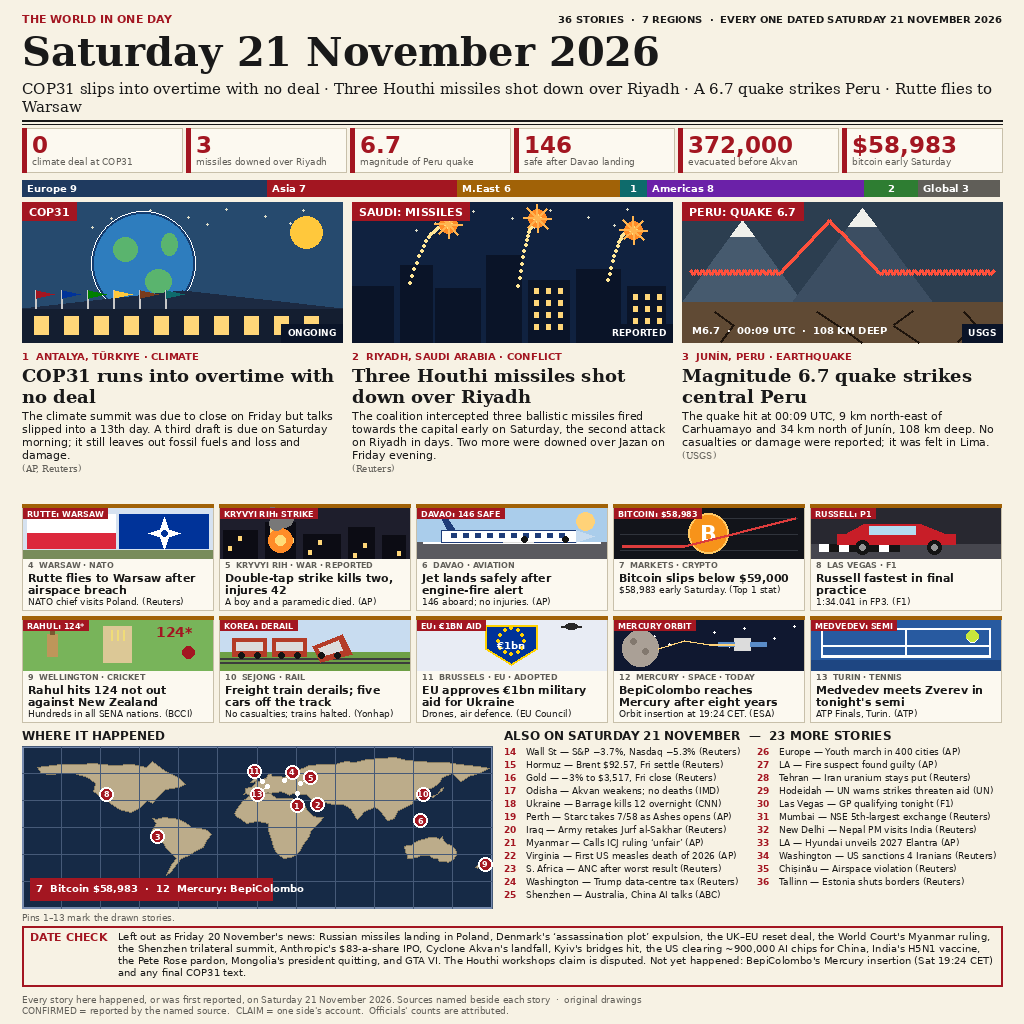
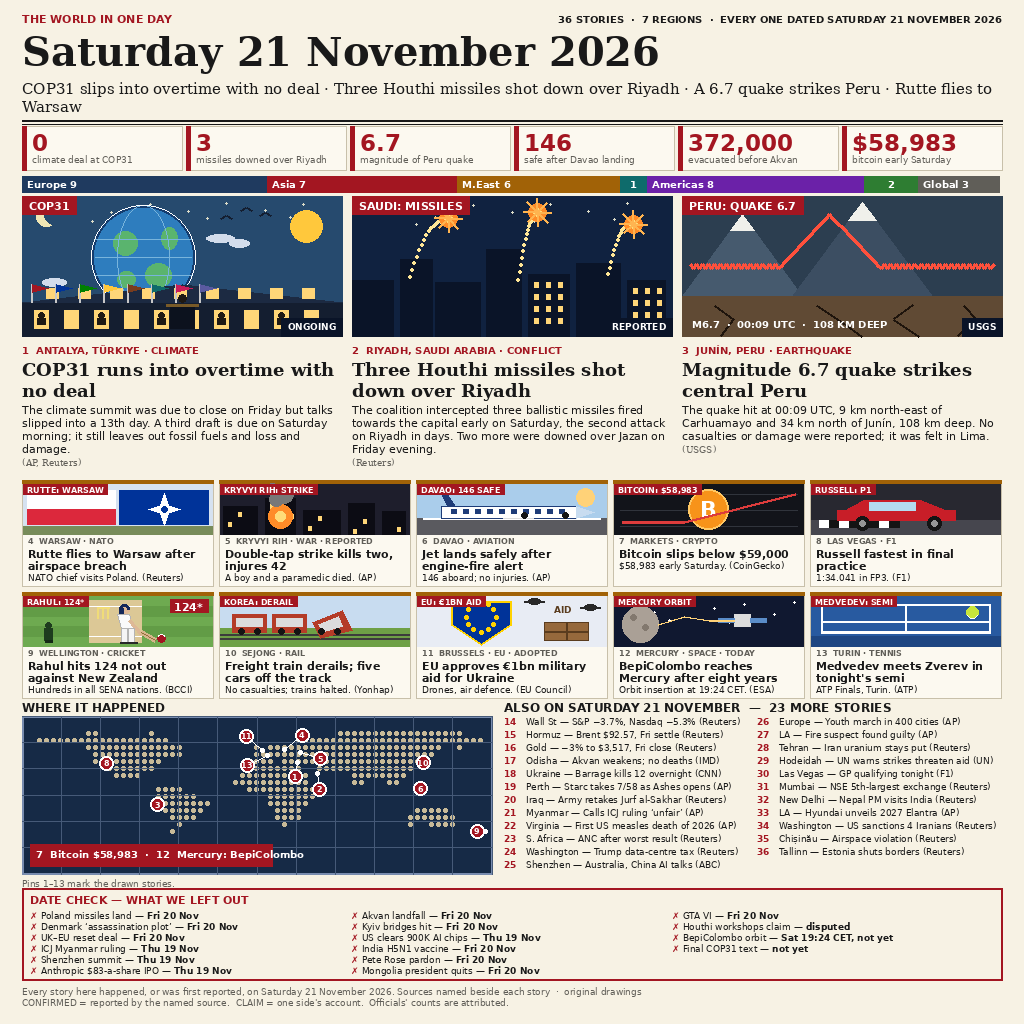
news-image-20261121: revision — richer illustrations, DATE CHECK checklist, dotted map, Bitcoin verified to CoinGecko

diff --git a/make_image.py b/make_image.py
@@ -143,7 +143,7 @@ SMALL = [
          body="146 aboard; no injuries.", src="AP", scene="plane",
          ban="DAVAO: 146 SAFE", region="Asia"),
     dict(n=7, tag="MARKETS \u00b7 CRYPTO", head="Bitcoin slips below $59,000",
-         body="$58,983 early Saturday.", src="Top 1 stat", scene="coin",
+         body="$58,983 early Saturday.", src="CoinGecko", scene="coin",
          ban="BITCOIN: $58,983", region="Global"),
     dict(n=8, tag="LAS VEGAS \u00b7 F1", head="Russell fastest in final practice",
          body="1:34.041 in FP3.", src="F1", scene="racecar",
@@ -203,53 +203,120 @@ STATS = [
     ("$58,983", "bitcoin early Saturday"),
 ]
 
-# Region counts recomputed from this story set; they sum to 36.
+# DATE CHECK: 16 items the paper deliberately left out, as a checklist
+# (the format top 3 uses — readable in 2 seconds). Each item names the day
+# it actually belongs to; the four Thursday items are NOT lumped under
+# "Friday's news" the way a paragraph would. Down-columns, 3 columns.
+DC_ITEMS = [
+    ("Poland missiles land", "Fri 20 Nov"),
+    ("Denmark \u2018assassination plot\u2019", "Fri 20 Nov"),
+    ("UK\u2013EU reset deal", "Fri 20 Nov"),
+    ("ICJ Myanmar ruling", "Thu 19 Nov"),
+    ("Shenzhen summit", "Thu 19 Nov"),
+    ("Anthropic $83-a-share IPO", "Thu 19 Nov"),
+    ("Akvan landfall", "Fri 20 Nov"),
+    ("Kyiv bridges hit", "Fri 20 Nov"),
+    ("US clears 900K AI chips", "Thu 19 Nov"),
+    ("India H5N1 vaccine", "Fri 20 Nov"),
+    ("Pete Rose pardon", "Fri 20 Nov"),
+    ("Mongolia president quits", "Fri 20 Nov"),
+    ("GTA VI", "Fri 20 Nov"),
+    ("Houthi workshops claim", "disputed"),
+    ("BepiColombo orbit", "Sat 19:24 CET, not yet"),
+    ("Final COP31 text", "not yet"),
+]
 REGIONS = [("Europe", 9, (31, 58, 95)), ("Asia", 7, (163, 22, 33)),
            ("Middle East", 6, (161, 98, 7)), ("Africa", 1, (14, 107, 107)),
            ("Americas", 8, (107, 33, 168)), ("Oceania", 2, (46, 125, 50)),
            ("Global", 3, (96, 94, 88))]
 
 # Map pins for stories 1-6, 8-11, 13. dx,dy = display offset in px (a leader
-# line is drawn back to the true position); used where pins would collide.
-PINS = {1: (30.7, 36.9, 0, 12), 2: (46.7, 24.7, 0, 0), 3: (-75.9, -11.0, 0, 0),
-        4: (21.0, 52.2, 8, -8), 5: (33.4, 47.9, 10, -6), 6: (125.6, 7.1, 0, 0),
-        8: (-115.1, 36.2, 0, 0), 9: (174.8, -41.3, 0, 0), 10: (127.3, 36.5, 0, 0),
-        11: (4.4, 50.8, -8, -10), 13: (7.7, 45.1, -10, 8)}
+# line is drawn back to the true position). Europe pins 4, 5, 11, 13 and the
+# Middle-East pins 1, 2 are spread so no two displayed pins sit closer than
+# ~28 px (pin diameter is 14).
+PINS = {1: (30.7, 36.9, -2, 14), 2: (46.7, 24.7, 2, 16), 3: (-75.9, -11.0, 0, 0),
+        4: (21.0, 52.2, 18, -14), 5: (33.4, 47.9, 20, 6), 6: (125.6, 7.1, 0, 0),
+        8: (-115.1, 36.2, 0, 0), 9: (174.8, -41.3, -8, 0), 10: (127.3, 36.5, 0, 0),
+        11: (4.4, 50.8, -16, -14), 13: (7.7, 45.1, -20, 10)}
 # pins 7 (Bitcoin) and 12 (Mercury) are off-map: drawn in the corner box.
 
 
 # ---------------------------------------------------------------- lead pictures
 def draw_summit(d, x, y, w, h):
-    """COP31: a globe over a conference hall at dusk, flags along the base."""
+    """COP31: a globe over a conference hall at dusk, flags along the base.
+    Richer than a bare globe: the globe carries a lat/long grid and cloud
+    wisps, a crescent moon hangs top-left, the hall shows two rows of lit
+    windows with delegate silhouettes and a central podium."""
     d.rectangle([x, y, x + w, y + h], fill=(38, 74, 110))
     for fx, fy in [(0.06, 0.10), (0.16, 0.05), (0.28, 0.12), (0.40, 0.06),
                    (0.52, 0.11), (0.64, 0.05), (0.76, 0.10), (0.88, 0.06),
                    (0.22, 0.18), (0.58, 0.16), (0.84, 0.15)]:
         sx, sy = x + fx * w, y + fy * h
         d.ellipse([sx - 1, sy - 1, sx + 1, sy + 1], fill=(220, 220, 200))
-    # the globe, centre-left
+    # crescent moon, top-left
+    mx0, my0 = x + 14, y + 10
+    d.ellipse([mx0, my0, mx0 + 20, my0 + 20], fill=(240, 230, 180))
+    d.ellipse([mx0 + 8, my0 - 2, mx0 + 26, my0 + 18], fill=(38, 74, 110))
+    # birds
+    for bx, by in [(0.70, 0.10), (0.76, 0.14), (0.64, 0.16)]:
+        px, py = x + bx * w, y + by * h
+        d.line([(px - 5, py), (px, py - 3), (px + 5, py)], fill=(20, 30, 48),
+               width=2)
+    # the globe, centre-left, with a lat/long grid and cloud wisps
     cx, cy, r = x + int(w * 0.38), y + int(h * 0.44), 52
     d.ellipse([cx - r, cy - r, cx + r, cy + r], fill=(46, 125, 190),
               outline=(20, 60, 110), width=3)
     d.ellipse([cx - 30, cy - 26, cx - 6, cy - 2], fill=(90, 180, 110))
     d.ellipse([cx + 2, cy + 6, cx + 28, cy + 30], fill=(90, 180, 110))
     d.ellipse([cx + 18, cy - 30, cx + 34, cy - 8], fill=(90, 180, 110))
+    d.ellipse([cx - 26, cy + 14, cx - 8, cy + 30], fill=(90, 180, 110))
+    # grid: equator + two meridians clipped to the disc
+    d.line([(cx - r + 4, cy), (cx + r - 4, cy)], fill=(120, 180, 220), width=1)
+    d.line([(cx - r + 4, cy - 18), (cx + r - 4, cy - 18)],
+           fill=(120, 180, 220), width=1)
+    d.line([(cx - r + 4, cy + 18), (cx + r - 4, cy + 18)],
+           fill=(120, 180, 220), width=1)
+    d.arc([cx - r // 2, cy - r, cx + r // 2, cy + r], 270, 90,
+          fill=(120, 180, 220), width=1)
+    d.arc([cx - r // 2, cy - r, cx + r // 2, cy + r], 90, 270,
+          fill=(120, 180, 220), width=1)
     d.ellipse([cx - r, cy - r, cx + r, cy + r], outline=(255, 255, 255), width=1)
+    # cloud wisps drifting past the globe
+    for cwx, cwy, cwr in [(0.62, 0.30, 14), (0.68, 0.34, 10), (0.10, 0.62, 12)]:
+        px, py = x + cwx * w, y + cwy * h
+        d.ellipse([px - cwr, py - 4, px + cwr, py + 4], fill=(210, 220, 235))
     # sun low on the right
     d.ellipse([x + w - 52, y + 14, x + w - 20, y + 46], fill=(255, 200, 60))
-    # conference hall roofline along the bottom
+    # conference hall roofline along the bottom, two rows of lit windows
     d.rectangle([x, y + h - 34, x + w, y + h], fill=(20, 30, 48))
     d.polygon([(x, y + h - 34), (x + w // 2, y + h - 52), (x + w, y + h - 34)],
               fill=(28, 42, 66))
     for fx in range(0, 10):
         px = x + 12 + fx * 30
         d.rectangle([px, y + h - 26, px + 14, y + h - 8], fill=(255, 214, 120))
-    # flags in a row
+        # delegate silhouette in every other window
+        if fx % 2 == 0:
+            d.ellipse([px + 4, y + h - 24, px + 10, y + h - 18],
+                      fill=(30, 25, 20))
+            d.rectangle([px + 3, y + h - 18, px + 11, y + h - 12],
+                        fill=(30, 25, 20))
+    # upper window row
+    for fx in range(0, 9):
+        px = x + 24 + fx * 32
+        d.rectangle([px, y + h - 48, px + 12, y + h - 38], fill=(255, 214, 120))
+    # podium with a speaker, centre foreground
+    d.rectangle([x + w // 2 - 12, y + h - 30, x + w // 2 + 12, y + h - 8],
+                fill=(12, 18, 30))
+    d.rectangle([x + w // 2 - 16, y + h - 32, x + w // 2 + 16, y + h - 30],
+                fill=(120, 90, 40))
+    d.ellipse([x + w // 2 - 4, y + h - 42, x + w // 2 + 4, y + h - 34],
+              fill=(30, 25, 20))
+    # flags in a row (8)
     for i, col in enumerate([RED, (0, 51, 153), (0, 128, 0), (255, 200, 60),
-                             (120, 60, 30), TEAL]):
-        fx = x + 14 + i * 26
+                             (120, 60, 30), TEAL, (200, 30, 90), (90, 90, 160)]):
+        fx = x + 10 + i * 24
         d.line([(fx, y + h - 34), (fx, y + h - 52)], fill=(200, 200, 200), width=2)
-        d.polygon([(fx, y + h - 52), (fx + 18, y + h - 48), (fx, y + h - 44)],
+        d.polygon([(fx, y + h - 52), (fx + 16, y + h - 48), (fx, y + h - 44)],
                   fill=col)
 
 
@@ -429,16 +496,57 @@ def scene_racecar(d, x, y, w, h):
 
 
 def scene_cricket(d, x, y, w, h):
-    d.rectangle([x, y, x + w, y + h], fill=(120, 180, 90))
-    d.rectangle([x + w // 2 - 14, y + 6, x + w // 2 + 14, y + h - 8],
-                fill=(220, 200, 150))
-    for sx in [x + w // 2 - 6, x + w // 2, x + w // 2 + 6]:
-        d.line([(sx, y + 10), (sx, y + 20)], fill=(240, 220, 120), width=2)
-    # batsman silhouette
-    d.rectangle([x + 24, y + 14, x + 34, y + h - 14], fill=(190, 150, 90))
-    d.rectangle([x + 27, y + 6, x + 31, y + 14], fill=(120, 90, 50))
-    d.ellipse([x + w - 30, y + h - 24, x + w - 18, y + h - 12], fill=RED)
-    d.text((x + w - 56, y + 4), "124*", font=sans_b(14), fill=RED)
+    """Rahul 124*: a batsman in full kit at the crease — helmet, pads, bat
+    meeting the ball — with stumps behind and a fielder in the deep."""
+    # outfield with mowing stripes
+    d.rectangle([x, y, x + w, y + h], fill=(110, 170, 80))
+    for sy in range(y, y + h, 10):
+        if (sy // 10) % 2 == 0:
+            d.rectangle([x, sy, x + w, sy + 10], fill=(98, 156, 70))
+    # pitch strip with crease lines
+    d.rectangle([x + 66, y + 4, x + 118, y + h - 4], fill=(220, 200, 150))
+    d.line([(x + 66, y + 10), (x + 118, y + 10)], fill=(255, 255, 255), width=1)
+    d.line([(x + 66, y + h - 10), (x + 118, y + h - 10)], fill=(255, 255, 255),
+           width=1)
+    # stumps + bails
+    for sx in [x + 74, x + 79, x + 84]:
+        d.line([(sx, y + 12), (sx, y + 22)], fill=(240, 220, 120), width=2)
+    d.line([(x + 74, y + 11), (x + 86, y + 11)], fill=(240, 220, 120), width=2)
+    # fielder in the deep, left
+    d.ellipse([x + 22, y + 26, x + 28, y + 32], fill=(30, 60, 30))
+    d.rectangle([x + 21, y + 32, x + 29, y + 44], fill=(30, 60, 30))
+    d.rectangle([x + 22, y + 44, x + 25, y + h - 4], fill=(20, 40, 20))
+    d.rectangle([x + 26, y + 44, x + 29, y + h - 4], fill=(20, 40, 20))
+    # batsman: helmet + head
+    d.ellipse([x + 96, y + 8, x + 106, y + 18], fill=(222, 184, 150))
+    d.arc([x + 96, y + 8, x + 106, y + 18], 180, 360, fill=(20, 40, 90), width=3)
+    d.rectangle([x + 96, y + 12, x + 100, y + 18], fill=(20, 40, 90))
+    # torso (white shirt), leaning over the ball
+    d.polygon([(x + 94, y + 18), (x + 106, y + 18), (x + 110, y + 32),
+               (x + 98, y + 32)], fill=(250, 250, 250),
+              outline=(180, 180, 180))
+    # arms reaching down to the bat
+    d.line([(x + 106, y + 24), (x + 118, y + 38)], fill=(222, 184, 150), width=3)
+    # pads on both legs
+    d.rectangle([x + 98, y + 32, x + 104, y + 46], fill=(245, 245, 245),
+                outline=(180, 180, 180))
+    d.rectangle([x + 105, y + 32, x + 111, y + 46], fill=(245, 245, 245),
+                outline=(180, 180, 180))
+    # shoes
+    d.rectangle([x + 97, y + 46, x + 105, y + h - 3], fill=(40, 40, 40))
+    d.rectangle([x + 106, y + 46, x + 114, y + h - 3], fill=(40, 40, 40))
+    # bat, angled down to the ball
+    d.line([(x + 118, y + 36), (x + 132, y + h - 6)], fill=(214, 182, 140),
+           width=5)
+    d.line([(x + 118, y + 36), (x + 132, y + h - 6)], fill=(150, 110, 60),
+           width=1)
+    # red ball just past the bat
+    d.ellipse([x + 134, y + h - 12, x + 142, y + h - 4], fill=RED)
+    d.arc([x + 134, y + h - 12, x + 142, y + h - 4], 200, 340,
+          fill=(255, 255, 255), width=1)
+    # score badge, top-right
+    d.rectangle([x + w - 42, y + 3, x + w - 4, y + 16], fill=RED)
+    d.text((x + w - 38, y + 4), "124*", font=sans_b(11), fill=(255, 255, 255))
 
 
 def scene_train(d, x, y, w, h):
@@ -463,21 +571,30 @@ def scene_train(d, x, y, w, h):
 
 
 def scene_eushield(d, x, y, w, h):
+    """EU aid: a large blue shield ringed with gold stars, an aid crate
+    beside it, drones overhead. The "€1bn" figure lives in the red banner
+    label above the scene — no cramped text inside the shield."""
     d.rectangle([x, y, x + w, y + h], fill=(232, 236, 244))
-    # shield
-    cx, cy = x + w // 2, y + h // 2 - 2
-    d.polygon([(cx - 26, cy - 18), (cx + 26, cy - 18), (cx + 26, cy + 6),
-               (cx, cy + 22), (cx - 26, cy + 6)], fill=(0, 51, 153),
+    # large shield, stars only
+    cx, cy = x + int(w * 0.34), y + h // 2
+    d.polygon([(cx - 30, cy - 20), (cx + 30, cy - 20), (cx + 30, cy + 4),
+               (cx, cy + 24), (cx - 30, cy + 4)], fill=(0, 51, 153),
               outline=(255, 210, 0), width=2)
     for k in range(12):
         a = k * math.pi / 6
-        d.ellipse([cx + 13 * math.cos(a) - 1.5, cy - 2 + 13 * math.sin(a) - 1.5,
-                   cx + 13 * math.cos(a) + 1.5, cy - 2 + 13 * math.sin(a) + 1.5],
+        d.ellipse([cx + 15 * math.cos(a) - 2, cy - 4 + 15 * math.sin(a) - 2,
+                   cx + 15 * math.cos(a) + 2, cy - 4 + 15 * math.sin(a) + 2],
                   fill=(255, 210, 0))
-    d.text((cx, cy + 2), "\u20ac1bn", font=sans_b(10), fill=(255, 255, 255),
-           anchor="mm")
-    # small drone silhouettes
-    for dx, dy in [(0.12, 0.14), (0.82, 0.12)]:
+    # aid crate with cross straps, right side
+    d.rectangle([x + w - 62, y + h - 24, x + w - 18, y + h - 6],
+                fill=(150, 105, 60), outline=(90, 60, 30))
+    d.line([(x + w - 62, y + h - 15), (x + w - 18, y + h - 15)],
+           fill=(90, 60, 30), width=2)
+    d.line([(x + w - 40, y + h - 24), (x + w - 40, y + h - 6)],
+           fill=(90, 60, 30), width=2)
+    d.text((x + w - 52, y + 8), "AID", font=sans_b(9), fill=(90, 60, 30))
+    # small drone silhouettes (kept clear of the AID label)
+    for dx, dy in [(0.62, 0.10), (0.92, 0.22)]:
         px, py = x + dx * w, y + dy * h
         d.ellipse([px - 6, py - 3, px + 6, py + 3], fill=(40, 40, 40))
         d.line([(px - 10, py), (px + 10, py)], fill=(40, 40, 40), width=2)
@@ -575,15 +692,29 @@ CONTINENTS = [
 
 
 def draw_map(d, x, y, w, h):
+    """World map in the dotted style: land is a grid of tan dots on navy,
+    not a solid fill. A mask of the continent polygons decides where dots
+    land, so the shapes stay exact while the texture reads as dotted."""
     d.rectangle([x, y, x + w, y + h], fill=NAVY_D)
     d.rectangle([x, y, x + w, y + h], outline=(120, 140, 175), width=2)
+    # mask of the continents, in map-pixel coordinates
+    mask = Image.new("L", (w, h), 0)
+    md = ImageDraw.Draw(mask)
     for poly in CONTINENTS:
         pts = []
         for lon, lat in poly:
-            px = x + (lon + 180.0) / 360.0 * w
-            py = y + (90.0 - lat) / 180.0 * h
+            px = (lon + 180.0) / 360.0 * w
+            py = (90.0 - lat) / 180.0 * h
             pts.append((px, py))
-        d.polygon(pts, fill=(188, 172, 138), outline=(140, 128, 100))
+        md.polygon(pts, fill=255)
+    # stamp dots on a 7 px grid wherever the mask is set
+    step, r = 7, 2
+    mp = mask.load()
+    for gy in range(step // 2, h, step):
+        for gx in range(step // 2, w, step):
+            if mp[gx, gy]:
+                d.ellipse([x + gx - r, y + gy - r, x + gx + r, y + gy + r],
+                          fill=(200, 186, 152))
     # graticule
     for lon in range(-150, 181, 30):
         gx = x + (lon + 180.0) / 360.0 * w
@@ -635,7 +766,7 @@ def build():
                    serif_i(15), cw, fill=INK, leading=18)
     hline(d, mx, mx + cw, y + 4, fill=INK, width=2)
     hline(d, mx, mx + cw, y + 8, fill=INK, width=1)
-    y += 12
+    y += 10
 
     # stat strip
     bw = (cw - 5 * 4) // 6
@@ -645,7 +776,7 @@ def build():
         d.rectangle([bx, y, bx + 4, y + 44], fill=RED)
         d.text((bx + 10, y + 3), num, font=sans_b(23), fill=RED)
         text_block(d, bx + 10, y + 28, cap, sans(9), bw - 16, fill=GREY, leading=10)
-    y += 52
+    y += 50
 
     # region bar (counts sum to 36)
     total = sum(c for _, c, _ in REGIONS)
@@ -664,11 +795,11 @@ def build():
             d.text((x + seg / 2 - d.textlength(num, font=sans_b(10)) / 2, y + 2),
                    num, font=sans_b(10), fill=(255, 255, 255))
         x += seg
-    y += 22
+    y += 20
 
     # ---- leads: 3 equal columns
     lead_y = y
-    lead_h = 296
+    lead_h = 280
     lw = (cw - 2 * 10) // 3
     img_h = 140
     for i, lead in enumerate(LEADS):
@@ -692,7 +823,7 @@ def build():
         ty = text_block(d, lx, ty, lead["head"], serif_b(18), lw, leading=21)
         ty = text_block(d, lx, ty + 2, lead["body"], sans(11), lw, leading=13)
         d.text((lx, ty + 2), "(" + lead["src"] + ")", font=serif_i(9), fill=GREY)
-    y = lead_y + lead_h + 6
+    y = lead_y + lead_h + 4
 
     # ---- small stories: 2 rows x 5, each with a drawn mini-scene
     cw5 = (cw - 4 * 6) // 5
@@ -726,15 +857,15 @@ def build():
             bs = s["body"] + " (" + s["src"] + ")"
             check_w(d, bs, sans(9), cw5 - 12, f"small {s['n']} body+src")
             d.text((sx + 6, ty + 1), bs, font=sans(9), fill=INK)
-    y += 2 * row_h + 6 + 6
+    y += 2 * row_h + 4 + 4
 
     # ---- bottom band: map (left) + briefs (right)
     d.text((mx, y), "WHERE IT HAPPENED", font=sans_b(12), fill=INK)
     d.text((mx + 482, y), "ALSO ON SATURDAY 21 NOVEMBER  \u2014  23 MORE STORIES",
            font=sans_b(12), fill=INK)
-    y += 18
+    y += 16
     band_y = y
-    band_h = 162
+    band_h = 158
     map_x, map_w = mx, 470
     draw_map(d, map_x, band_y, map_w, band_h)
     d.text((map_x, band_y + band_h + 4), "Pins 1\u201313 mark the drawn stories.",
@@ -751,24 +882,25 @@ def build():
         line = f"{place} \u2014 {head}"  # head already carries its source
         check_w(d, line, sans(9), col_w - 22, f"brief {n}")
         d.text((bx + 22, by), line, font=sans(9), fill=INK)
-    y = band_y + band_h + 18
+    y = band_y + band_h + 14
 
-    # ---- date check
-    dc_text = ("Left out as Friday 20 November's news: Russian missiles landing in "
-               "Poland, Denmark's \u2018assassination plot\u2019 expulsion, the UK\u2013EU reset "
-               "deal, the World Court's Myanmar ruling, the Shenzhen trilateral "
-               "summit, Anthropic's $83-a-share IPO, Cyclone Akvan's landfall, "
-               "Kyiv's bridges hit, the US clearing ~900,000 AI chips for China, "
-               "India's H5N1 vaccine, the Pete Rose pardon, Mongolia's president "
-               "quitting, and GTA VI. The Houthi workshops claim is disputed. "
-               "Not yet happened: BepiColombo's Mercury insertion (Sat 19:24 CET) "
-               "and any final COP31 text.")
-    dc_lines = wrap(d, dc_text, sans(10), cw - 104)
-    dc_h = 8 + len(dc_lines) * 12 + 4
+    # ---- date check: 3-column checklist (✗ + item + its true day)
+    dc_h = 92
     d.rectangle([mx, y, mx + cw, y + dc_h], outline=RED, width=2)
-    d.text((mx + 8, y + 4), "DATE CHECK", font=sans_b(11), fill=RED)
-    text_block(d, mx + 96, y + 4, dc_text, sans(10), cw - 104, leading=12)
-    y += dc_h + 8
+    d.text((mx + 8, y + 5), "DATE CHECK \u2014 WHAT WE LEFT OUT", font=sans_b(11),
+           fill=RED)
+    col_w = (cw - 16) // 3
+    rows = 6
+    for idx, (label, day) in enumerate(DC_ITEMS):
+        col, row = idx // rows, idx % rows
+        ix = mx + 8 + col * col_w
+        iy = y + 22 + row * 11
+        d.text((ix, iy), "\u2717", font=sans_b(9), fill=RED)
+        tx = ix + d.textlength("\u2717 ", font=sans_b(9))
+        d.text((tx, iy), label, font=sans(9), fill=INK)
+        tx += d.textlength(label, font=sans(9))
+        d.text((tx, iy), f" \u2014 {day}", font=sans_b(9), fill=INK)
+    y += dc_h + 6
 
     # ---- footer
     d.text((mx, y), "Every story here happened, or was first reported, on Saturday 21 November 2026. "
